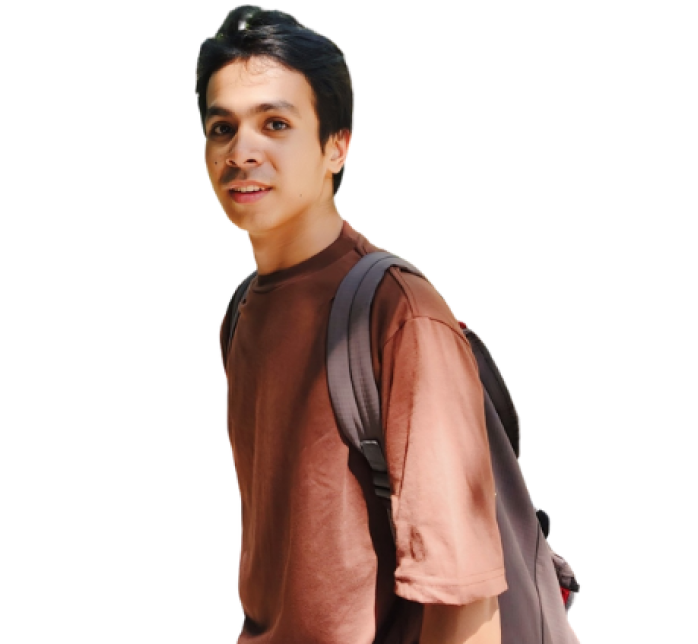
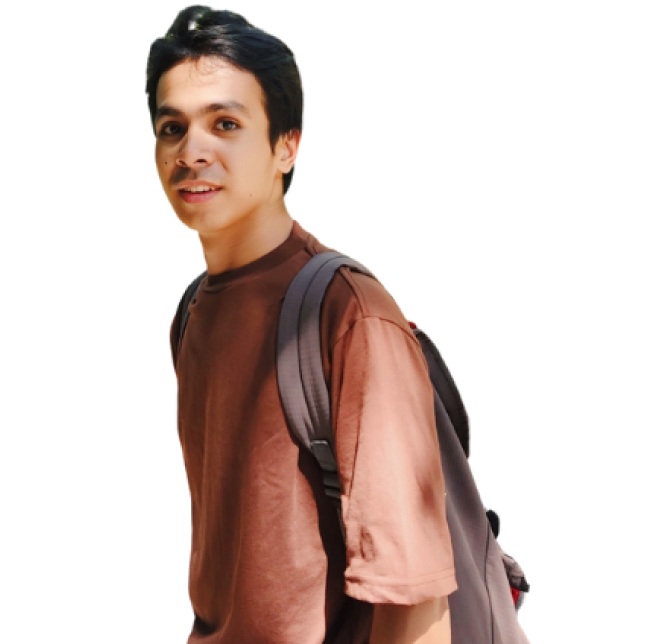
home semi done, animation and layout left

Changed region(s): [[0.216, 0.0, 0.8333, 1.0]]

diff --git a/IAmJm/src/components/cards/AnimatedProfile.jsx b/IAmJm/src/components/cards/AnimatedProfile.jsx
@@ -1,22 +1,29 @@
-import React from 'react'
-import profile from "../../assets/profile.png";
+import React from 'react';
+import profile from '../../assets/profile.png';
 
 const AnimatedProfile = () => {
   return (
-    <div className="w-[55%]">
-        <div></div>
-        <div>
-            <div></div>
-            <div></div>
-            <div></div>
-            <div></div>
-            <div></div>
-            <div></div>
-            <img src={profile}></img>
-        </div>
-        <div></div>
+    <div className="w-[55%] relative">
+      {/* Top Bar */}
+      <div className="w-[100%] h-7 bg-[#FED154] absolute top-0 animate-slide-right"></div>
+      <div className="relative">
+        {/* Left Side Bars */}
+        <div className="w-[50%] h-7 bg-[#FED154] absolute right-24 top-[1rem] animate-slide-right delay-150"></div>
+        <div className="w-[20%] h-7 bg-[#FED154] absolute right-32 top-[4rem] animate-slide-right delay-300"></div>
+        <div className="w-[50%] h-72 bg-[#FED154] absolute left-20 top-[8rem] z-10 animate-slide-right delay-450"></div>
+        
+        {/* Profile Image */}
+        <img src={profile} alt="Profile" className="relative z-20 mt-8 mx-auto" />
+        
+        {/* Right Side Bars */}
+        <div className="w-[50%] h-80 bg-[#F5B301] absolute right-20 top-[12rem] animate-slide-left delay-450"></div>
+        <div className="w-[20%] h-7 bg-[#FED154] absolute left-32 top-[34rem] animate-slide-left delay-300"></div>
+        <div className="w-[50%] h-7 bg-[#FED154] absolute left-20 top-[37rem] animate-slide-left delay-150"></div>
+      </div>
+      {/* Bottom Bar */}
+      <div className="w-[82%] h-7 bg-[#FED154] absolute bottom-30 animate-slide-right delay-600"></div>
     </div>
-  )
-}
+  );
+};
 
-export default AnimatedProfile
+export default AnimatedProfile;

diff --git a/IAmJm/src/pages/home/Home.jsx b/IAmJm/src/pages/home/Home.jsx
@@ -3,11 +3,12 @@ import Socials from "../../components/cards/Socials";
 import profile from "../../assets/profile.png";
 import AnimatedProfile from "../../components/cards/AnimatedProfile";
 import { Button } from "../../components/button/Button";
+import Navigation from "../../components/navigation/Navigation";
 
 const Home = () => {
   return (
-    <div className="px-[10%] gap-[5%] font-rubik flex lg:flex-row flex-col-reverse ">
-      <div className="lg:w-[35%] w-[100%] lg:text-left flex flex-col gap-4 text-center">
+    <div className="px-[10%] gap-[5%] font-rubik flex lg:flex-row justify-center items-center flex-col-reverse max-h-screen py-auto">
+      <div className="lg:w-[35%] w-[100%] m-auto lg:text-left justify-center flex flex-col gap-4 text-center">
         <h2 className="text-5xl text-[#F5B301]">Hello, Its me</h2>
         <h1 className="font-extrabold text-6xl text-[rgb(253,253,253)]">John Mark</h1>
         <p className="text-[#FDFDFD] leading-8 text-xl text-justify">
@@ -20,9 +21,15 @@ const Home = () => {
           learning new technologies and willing to contribute on projects.
         </p>
         <Socials></Socials>
+        <div className="flex flex-row gap-10 align-center py-20">
+          <Button variant="solid">About Me</Button>
+          <Button variant="bordered">Contact Me</Button>
+        </div>
       </div>
       <AnimatedProfile></AnimatedProfile>
+      <Navigation></Navigation>
     </div>
+
   );
 };
 

diff --git a/IAmJm/src/components/navigation/Navigation.jsx b/IAmJm/src/components/navigation/Navigation.jsx
@@ -1,10 +1,28 @@
 import React from 'react'
 import { NavLink, Link, useNavigate } from "react-router-dom";
+import AHome from "../../assets/AHome.png";
+import AAbout from "../../assets/AAbout.png";
+import AContact from "../../assets/AContact.png";
+import AProjects from "../../assets/AProjects.png";
+import ABlog from "../../assets/ABlog.png";
+import Home from "../../assets/Home.png";
+import About from "../../assets/About.png";
+import Contacts from "../../assets/Contacts.png";
+import Project from "../../assets/Project.png";
+import Blog from "../../assets/Blog.png";
+
 
 const Navigation = () => {
   return (
-    <div>
-      
+    <div className="h-[80%] py-12 relative">
+      <div className="h-[100%] w-[80%] absolute top-0 left-8 z-0 border-2 py-20 border-[#F5B301]"> </div>
+      <nav className="h-[40%] flex flex-col gap-10 z-10 justify-around relative">
+        <Link to="/"><img src={AHome}/></Link>
+        <Link to="/about"><img src={AAbout}/></Link>
+        <Link to="/projects"><img src={AProjects}/></Link>
+        <Link to="/contact"><img src={AContact}/></Link>
+        <Link to="/blog"><img src={ABlog}/></Link>
+      </nav>
     </div>
   )
 }

diff --git a/IAmJm/tailwind.config.js b/IAmJm/tailwind.config.js
@@ -9,6 +9,20 @@ export default {
       fontFamily: {
         rubik: ['Rubik', 'sans-serif'],
       },
+      keyframes: {
+        'slide-right': {
+          '0%': { transform: 'translateX(-100%)' },
+          '100%': { transform: 'translateX(0)' },
+        },
+        'slide-left': {
+          '0%': { transform: 'translateX(100%)' },
+          '100%': { transform: 'translateX(0)' },
+        },
+      },
+      animation: {
+        'slide-right': 'slide-right 1s ease-out forwards',
+        'slide-left': 'slide-left 1s ease-out forwards',
+      },
     },
   },
   plugins: [],

diff --git a/IAmJm/src/components/button/Button.jsx b/IAmJm/src/components/button/Button.jsx
@@ -10,6 +10,10 @@ const buttonVariants = cva(
       variant: {
         default:
           "bg-slate-900 text-white hover:bg-slate-700 dark:bg-slate-50 dark:text-slate-900",
+        solid:
+          "bg-[#F5B301] text-xl py-8 px-8 text-[#2A2E34] font-bold hover:bg-[#FED154] transition duration-300",
+        bordered:
+          "bg-[#2A2E34] text-xl py-8 px-8 text-[#F5B301] border-[#F5B301] border-2 font-bold hover:bg-[#FED154]  hover:text-[#2A2E34] transition duration-300" 
         
       },
       size: {

diff --git a/IAmJm/src/components/cards/Socials.jsx b/IAmJm/src/components/cards/Socials.jsx
@@ -6,7 +6,7 @@ import Github from "../../assets/GitHub.png";
 
 const Socials = () => {
   return (
-    <div className="border-b-2 border-t-2 border-[#F5B301]">
+    <div className="border-b-2 border-t-2 border-[#F5B301] py-[3%]">
       <li className="list-none flex flex-row align-center justify-around">
         <ul><a className="cursor-pointer w-12 h-12 m-auto"><img src={Instagram}/></a></ul>
         <ul><a className="cursor-pointer w-12 h-12 m-auto"><img src={Facebook}/></a></ul>

diff --git a/IAmJm/src/App.jsx b/IAmJm/src/App.jsx
@@ -6,7 +6,7 @@ import TransitionWrapper from "./components/transition/TransitionWrapper";
 
 function App() {
   return (
-    <div className="bg-[#3B4046] min-h-screen min-w-screen">
+    <div className="bg-[#1E2329] min-h-screen min-w-screen">
       <Name></Name>
       <Router>
         <TransitionWrapper>

diff --git a/IAmJm/src/pages/about/About.jsx b/IAmJm/src/pages/about/About.jsx
@@ -3,7 +3,7 @@ import React from 'react'
 const About = () => {
   return (
     <div>
-      
+      <div></div>
     </div>
   )
 }
